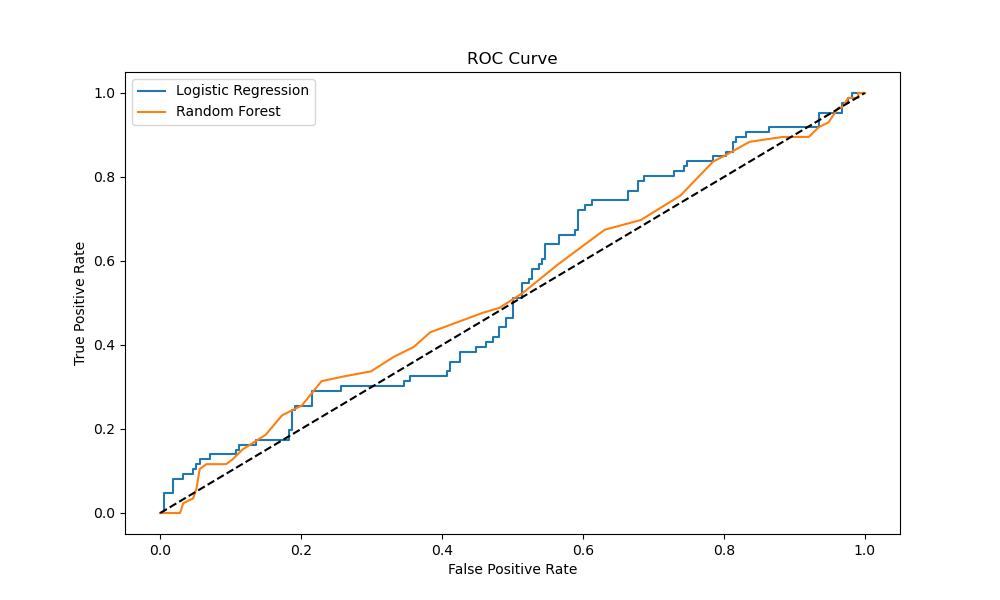
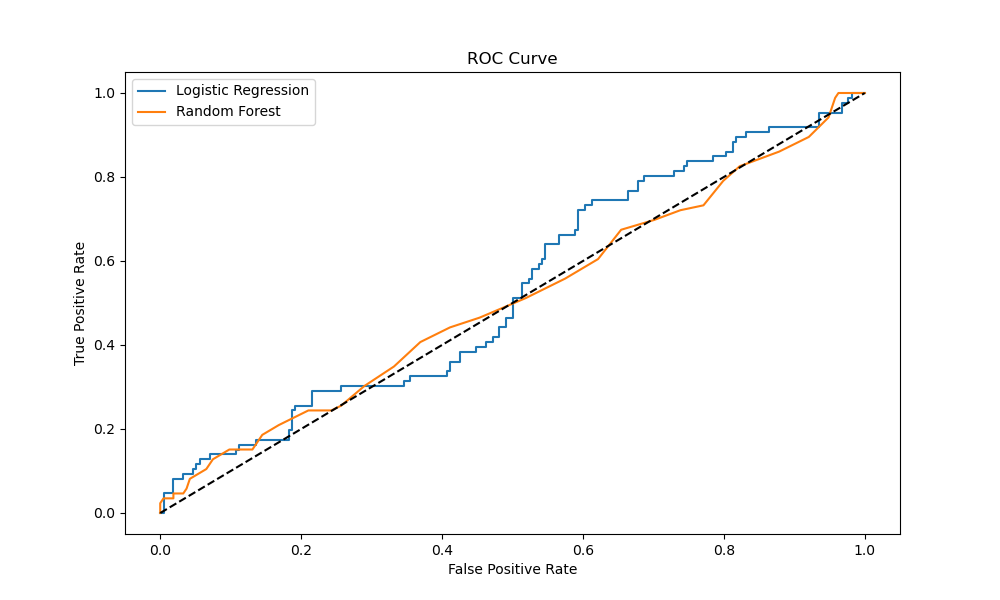
updates

diff --git a/report.html b/report.html
@@ -359,12 +359,12 @@ weighted avg       0.70      0.72      0.61       300
         <pre>
                       precision    recall  f1-score   support
 
-           0       0.71      0.97      0.82       214
-           1       0.00      0.00      0.00        86
+           0       0.72      0.99      0.83       214
+           1       0.50      0.03      0.07        86
 
-    accuracy                           0.69       300
-   macro avg       0.35      0.49      0.41       300
-weighted avg       0.50      0.69      0.58       300
+    accuracy                           0.71       300
+   macro avg       0.61      0.51      0.45       300
+weighted avg       0.66      0.71      0.61       300
 
         </pre>
         

diff --git a/README.md b/README.md
@@ -1,2 +1,81 @@
-# telecommunications-company
- The objective of this project is to predict customer churn for a telecommunications company. Customer churn refers to the loss of customers who switch to a competitor or stop using the service. By predicting churn, the company can take proactive measures to retain customers.
+
+# Telecom Customer Churn Analysis
+
+This project analyzes customer churn data in the telecom industry to understand patterns and predict churn rates using machine learning models. The dataset is synthesized to simulate a real-world scenario.
+
+## Features
+
+- **Synthetic Data Generation**: A script (`create_csv.py`) generates 1,000 synthetic customer records, stored as `telecom_customer_data.csv`.
+- **Data Preprocessing**: Handles missing values, encodes categorical variables, and prepares features for modeling.
+- **Exploratory Data Analysis (EDA)**: Includes statistical summaries, visualizations (correlation matrix, churn distribution, and pairplots).
+- **Model Building**: Logistic Regression and Random Forest Classifier are used to predict churn.
+- **Model Evaluation**: Performance metrics include classification reports and ROC curves.
+- **HTML Report Generation**: Outputs a detailed report with visualizations and evaluation results.
+
+## Project Structure
+
+```
+.
+├── create_csv.py          # Generates synthetic telecom customer data
+├── telecom_customer_data.csv  # Generated dataset (output of `create_csv.py`)
+├── main.py                # Main script for analysis, modeling, and report generation
+├── correlation_matrix.png # Correlation matrix visualization (generated by `main.py`)
+├── churn_distribution.png # Churn distribution visualization (generated by `main.py`)
+├── pairplot.png           # Pairplot of selected features (generated by `main.py`)
+├── roc_curve.png          # ROC curve visualization (generated by `main.py`)
+├── report.html            # Final HTML report (generated by `main.py`)
+└── README.md              # Project documentation
+```
+
+## Installation
+
+1. Clone the repository:
+   ```bash
+   git clone https://github.com/YourUsername/Telecom-Churn-Analysis.git
+   cd Telecom-Churn-Analysis
+   ```
+
+2. Install dependencies:
+   ```bash
+   pip install pandas numpy matplotlib seaborn scikit-learn
+   ```
+
+3. Run the data generation script:
+   ```bash
+   python create_csv.py
+   ```
+
+4. Perform the analysis and generate the report:
+   ```bash
+   python main.py
+   ```
+
+## Outputs
+
+1. **Dataset**: `telecom_customer_data.csv` (generated by `create_csv.py`).
+2. **Visualizations**:
+   - `correlation_matrix.png`
+   - `churn_distribution.png`
+   - `pairplot.png`
+   - `roc_curve.png`
+3. **HTML Report**: `report.html` provides an interactive summary of the analysis.
+
+## Highlights
+
+- **Synthetic Data**: Simulates customer churn data with realistic patterns.
+- **Automated Workflow**: Handles end-to-end analysis from data generation to report creation.
+- **Reproducible Visualizations**: Saves all plots for review and inclusion in reports.
+
+## Example Usage
+
+- **For business analysts**: Understand customer churn patterns and develop strategies to retain customers.
+- **For data scientists**: Practice data preprocessing, modeling, and visualization techniques.
+- **For educators**: Demonstrate the machine learning pipeline in the context of customer retention.
+
+## License
+
+This project is licensed under the MIT License. See the `LICENSE` file for more details.
+
+---
+
+Download this project as a ZIP [here](https://github.com/YourUsername/Telecom-Churn-Analysis/archive/refs/heads/main.zip).
